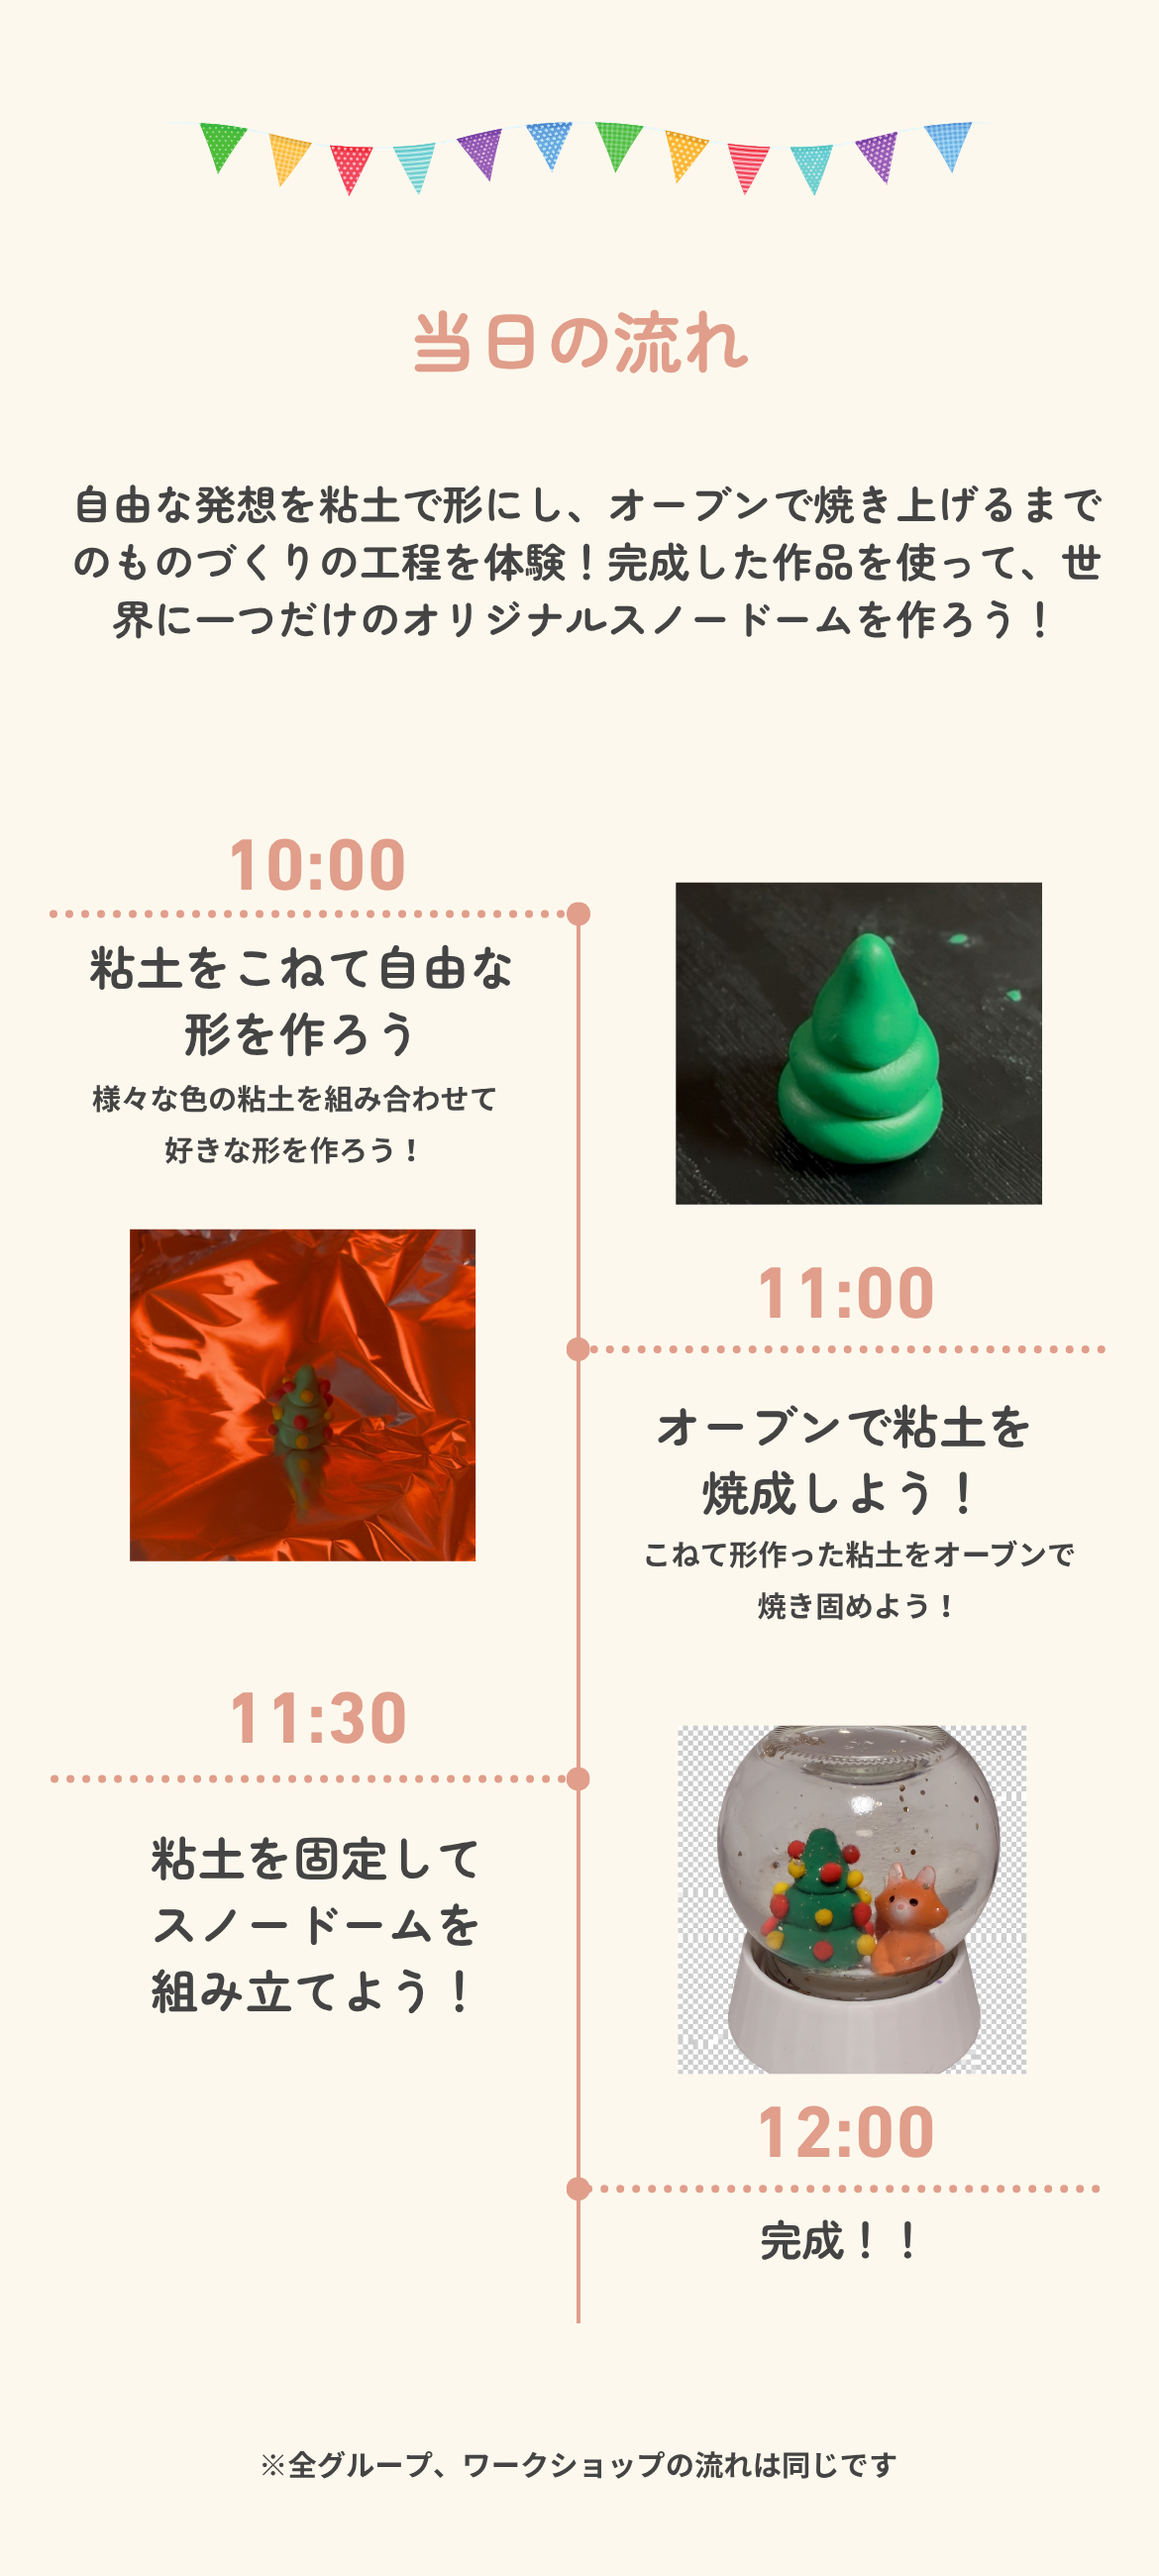
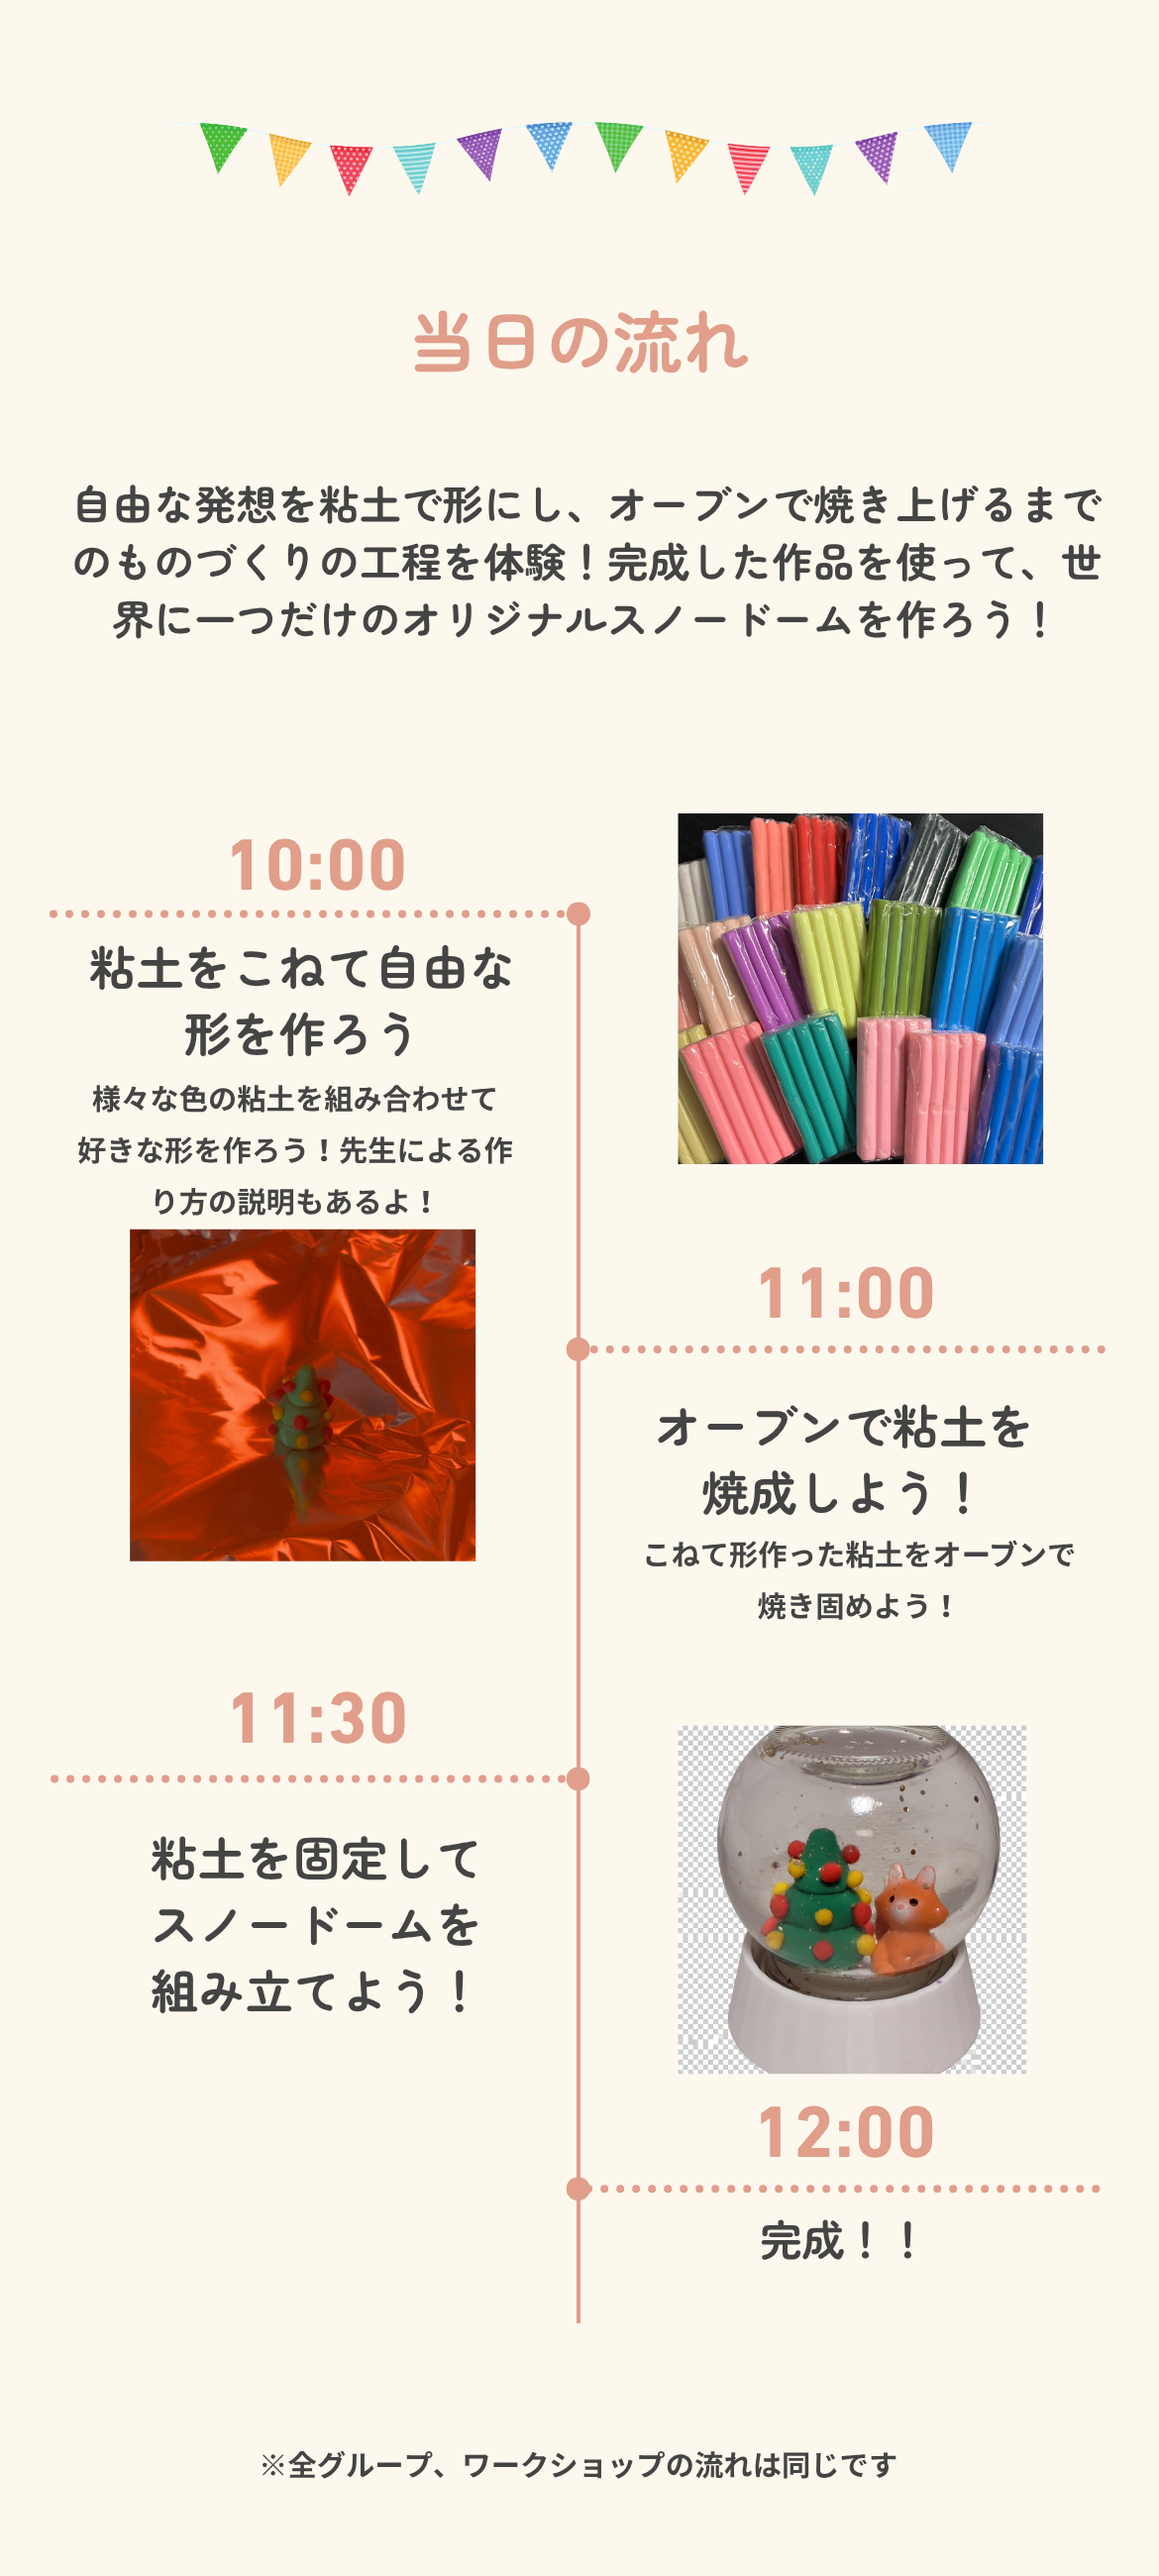
Enable December workshop registration and update program artwork

Changed region(s): [[0.5846, 0.3115, 0.9231, 0.4673], [0.0615, 0.4362, 0.4308, 0.4673]]

diff --git a/products/workshop/20261220A/index.html b/products/workshop/20261220A/index.html
@@ -19,7 +19,7 @@
   <meta name="twitter:card" content="summary_large_image" />
   <meta name="theme-color" content="#fff7ee" />
   <link rel="icon" href="../../../assets/img/logo_tab.png" type="image/png" />
-  <link rel="stylesheet" href="styles.css" />
+  <link rel="stylesheet" href="styles.css?v=booking-20261126" />
   <script defer src="script.js"></script>
 </head>
 <body>
@@ -29,7 +29,7 @@
       <a class="brand" href="../../../" aria-label="ThouLab トップページへ">
         <img src="../../../assets/potera/logo0611.png" width="132" height="36" alt="ぽてら学舎" />
       </a>
-      <a class="header-cta" href="#entry">参加案内</a>
+      <a class="header-cta" href="https://atclerk-staging-booking.vercel.app/w/w-5cd4a8c0df5a44bba02c67683206e884?utm_source=atclerk_route&amp;utm_medium=referral&amp;utm_campaign=route_dfaed6a6f2c345d4985c48d29729d92c&amp;atc_via=lp" data-apply-link data-cta-place="header">申し込み</a>
     </header>
 
     <main id="main">
@@ -41,7 +41,7 @@
         <figure class="hero-visual">
           <img src="../../../assets/potera/1220A/hero-mosaic.png" width="1768" height="889" alt="粘土工作に取り組む子どもたち（顔はモザイク処理済み）と、完成したスノードームの作品例" fetchpriority="high" />
         </figure>
-        <a class="btn btn-primary wide" href="#entry">参加案内を確認する</a>
+        <a class="btn btn-primary wide" href="https://atclerk-staging-booking.vercel.app/w/w-5cd4a8c0df5a44bba02c67683206e884?utm_source=atclerk_route&amp;utm_medium=referral&amp;utm_campaign=route_dfaed6a6f2c345d4985c48d29729d92c&amp;atc_via=lp" data-apply-link data-cta-place="hero">申し込み</a>
         <a class="text-link" href="#overview">開催概要を見る</a>
       </section>
 
@@ -51,7 +51,7 @@
           <h2 id="program-title">当日の流れ</h2>
         </div>
         <figure class="portrait-wrap">
-          <img src="../../../assets/potera/1220A/program.png" width="1170" height="2600" alt="当日の流れ（10時開始の回の例）。10:00 粘土をこねて好きな形を作る。11:00 オーブンで粘土を焼き固める。11:30 作品を固定してスノードームを組み立てる。12:00 完成。全グループ同じ流れです。" loading="lazy" />
+          <img src="../../../assets/potera/1220A/program.png?v=f071ebd4" width="1170" height="2600" alt="当日の流れ（10時開始の回の例）。10:00 先生の説明を聞き、いろいろな色の粘土をこねて好きな形を作る。11:00 オーブンで粘土を焼き固める。11:30 作品を固定してスノードームを組み立てる。12:00 完成。全グループ同じ流れです。" loading="lazy" />
         </figure>
       </section>
 
@@ -88,8 +88,9 @@
         <a class="text-link" href="https://www.google.com/maps/search/?api=1&amp;query=%E6%B9%98%E5%8D%97MK%E3%83%9B%E3%83%BC%E3%83%AB%20%E8%97%A4%E6%B2%A2" target="_blank" rel="noopener noreferrer">Googleマップで場所を見る</a>
       </section>
 
-      <section class="section" id="entry" aria-label="お問い合わせ">
-        <a class="btn btn-secondary wide" href="mailto:potera@thoulab.jp?subject=12%E6%9C%8820%E6%97%A5%E3%81%AE%E3%82%B9%E3%83%8E%E3%83%BC%E3%83%89%E3%83%BC%E3%83%A0%E5%B7%A5%E4%BD%9C%E3%81%AB%E3%81%A4%E3%81%84%E3%81%A6">お問い合わせ</a>
+      <section class="section" id="entry" aria-label="申し込み・お問い合わせ">
+        <a class="btn btn-primary wide" href="https://atclerk-staging-booking.vercel.app/w/w-5cd4a8c0df5a44bba02c67683206e884?utm_source=atclerk_route&amp;utm_medium=referral&amp;utm_campaign=route_dfaed6a6f2c345d4985c48d29729d92c&amp;atc_via=lp" data-apply-link data-cta-place="entry">申し込み</a>
+        <a class="btn btn-secondary wide entry-contact" href="mailto:potera@thoulab.jp?subject=12%E6%9C%8820%E6%97%A5%E3%81%AE%E3%82%B9%E3%83%8E%E3%83%BC%E3%83%89%E3%83%BC%E3%83%A0%E5%B7%A5%E4%BD%9C%E3%81%AB%E3%81%A4%E3%81%84%E3%81%A6">お問い合わせ</a>
       </section>
 
       <section class="section" aria-labelledby="faq-title">
@@ -108,7 +109,7 @@
         <p class="section-kicker">Let's create!</p>
         <h2 id="final-title">自分だけの小さな世界を、<br>作って持ち帰ろう。</h2>
         <p>12月20日（日）は、藤沢で粘土工作。<br>好きな色と形で、オリジナルのスノードームを。</p>
-        <a class="btn btn-primary wide" href="#entry">参加案内を確認する</a>
+        <a class="btn btn-primary wide" href="https://atclerk-staging-booking.vercel.app/w/w-5cd4a8c0df5a44bba02c67683206e884?utm_source=atclerk_route&amp;utm_medium=referral&amp;utm_campaign=route_dfaed6a6f2c345d4985c48d29729d92c&amp;atc_via=lp" data-apply-link data-cta-place="final">申し込み</a>
       </section>
     </main>
 
@@ -122,9 +123,9 @@
       <p class="footer-note">© <span id="year">2026</span> Potera Gakusha. All rights reserved.</p>
     </footer>
   </div>
-  <aside class="sticky-apply" aria-label="参加案内">
+  <aside class="sticky-apply" aria-label="申し込み">
     <div><span>12/20（日）藤沢・小学生向け</span><strong>スノードームを作ろう</strong></div>
-    <a href="#entry">参加案内</a>
+    <a href="https://atclerk-staging-booking.vercel.app/w/w-5cd4a8c0df5a44bba02c67683206e884?utm_source=atclerk_route&amp;utm_medium=referral&amp;utm_campaign=route_dfaed6a6f2c345d4985c48d29729d92c&amp;atc_via=lp" data-apply-link data-cta-place="sticky">申し込み</a>
   </aside>
 </body>
 </html>

diff --git a/products/workshop/20261220A/styles.css b/products/workshop/20261220A/styles.css
@@ -53,6 +53,7 @@ a:focus-visible, summary:focus-visible { outline: 3px solid #28765e; outline-off
 .btn-primary { color: #fff; background: linear-gradient(135deg, #bf5518, #9f3e0b); box-shadow: 0 10px 24px rgba(167, 71, 18, .22); transition: transform .18s ease, box-shadow .18s ease; }
 .btn-primary:hover { transform: translateY(-2px); box-shadow: 0 13px 28px rgba(167, 71, 18, .28); }
 .btn-secondary { color: var(--primary-dark); background: #fff; border: 1px solid var(--line); }
+.entry-contact { margin-top: 12px; }
 .text-link { display: block; width: fit-content; margin: 15px auto 0; padding: 5px; color: var(--primary-dark); font-size: .875rem; font-weight: 700; text-underline-offset: 4px; }
 .section { padding: 44px 18px 0; }
 .section-head { margin-bottom: 18px; }
